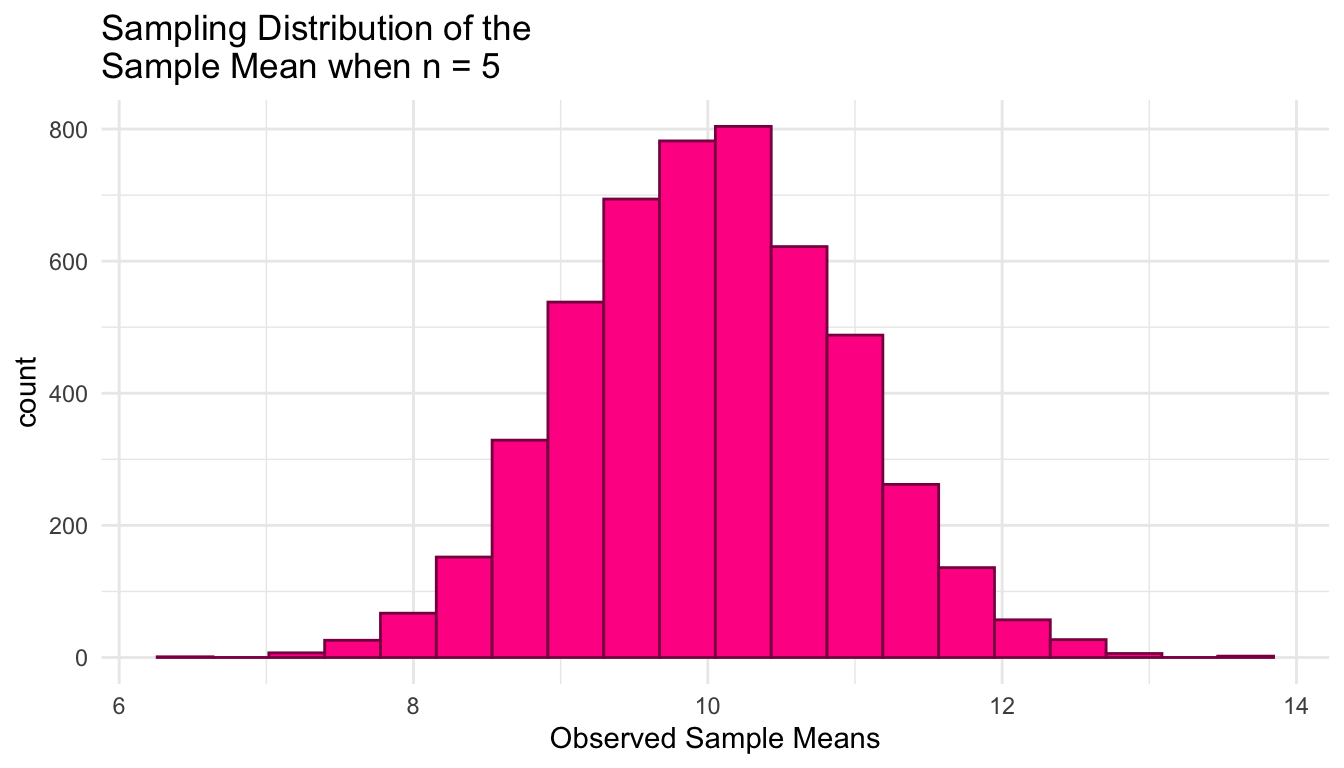
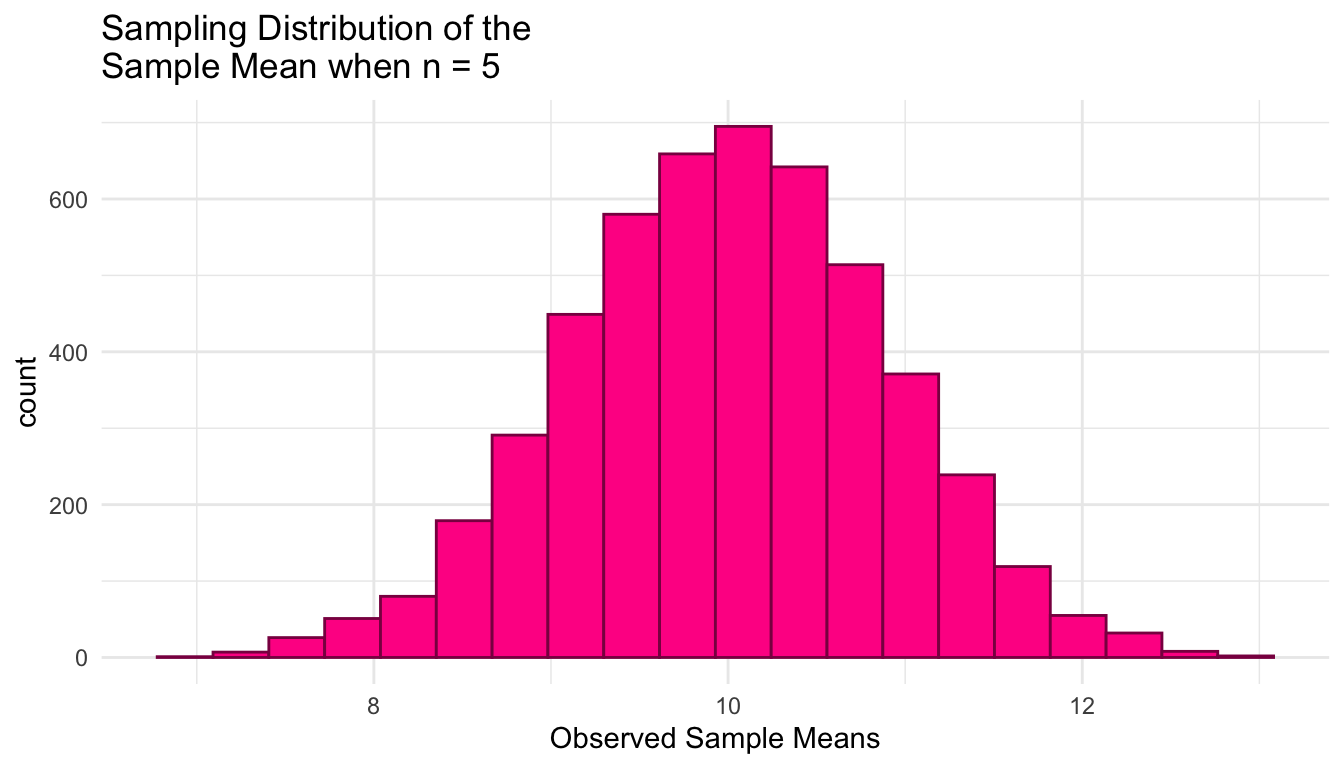
portfolio update.

diff --git a/docs/portfolio.html b/docs/portfolio.html
@@ -68,6 +68,35 @@ ul.task-list li input[type="checkbox"] {
   }
 }</script>
 
+  <script src="https://polyfill.io/v3/polyfill.min.js?features=es6"></script>
+  <script src="https://cdn.jsdelivr.net/npm/mathjax@3/es5/tex-chtml-full.js" type="text/javascript"></script>
+
+<script type="text/javascript">
+const typesetMath = (el) => {
+  if (window.MathJax) {
+    // MathJax Typeset
+    window.MathJax.typeset([el]);
+  } else if (window.katex) {
+    // KaTeX Render
+    var mathElements = el.getElementsByClassName("math");
+    var macros = [];
+    for (var i = 0; i < mathElements.length; i++) {
+      var texText = mathElements[i].firstChild;
+      if (mathElements[i].tagName == "SPAN") {
+        window.katex.render(texText.data, mathElements[i], {
+          displayMode: mathElements[i].classList.contains('display'),
+          throwOnError: false,
+          macros: macros,
+          fleqn: false
+        });
+      }
+    }
+  }
+}
+window.Quarto = {
+  typesetMath
+};
+</script>
 
 </head>
 
@@ -160,7 +189,19 @@ ul.task-list li input[type="checkbox"] {
 <div id="quarto-sidebar-glass" class="quarto-sidebar-collapse-item" data-bs-toggle="collapse" data-bs-target=".quarto-sidebar-collapse-item"></div>
 <!-- margin-sidebar -->
     <div id="quarto-margin-sidebar" class="sidebar margin-sidebar">
-        
+        <nav id="TOC" role="doc-toc" class="toc-active">
+    <h2 id="toc-title">Table of contents</h2>
+   
+  <ul>
+  <li><a href="#mini-project-summary-or-homework-summary-35-points" id="toc-mini-project-summary-or-homework-summary-35-points" class="nav-link active" data-scroll-target="#mini-project-summary-or-homework-summary-35-points">Mini-Project Summary OR Homework Summary (35 points)</a>
+  <ul class="collapse">
+  <li><a href="#option-1-mini-projects" id="toc-option-1-mini-projects" class="nav-link" data-scroll-target="#option-1-mini-projects">Option 1: Mini-Projects</a></li>
+  <li><a href="#option-2-homework" id="toc-option-2-homework" class="nav-link" data-scroll-target="#option-2-homework">Option 2: Homework</a></li>
+  </ul></li>
+  <li><a href="#reflection-20-points" id="toc-reflection-20-points" class="nav-link" data-scroll-target="#reflection-20-points">Reflection (20 points)</a></li>
+  <li><a href="#in-class-assessment-45-points" id="toc-in-class-assessment-45-points" class="nav-link" data-scroll-target="#in-class-assessment-45-points">In-Class Assessment (45 points)</a></li>
+  </ul>
+</nav>
     </div>
 <!-- main -->
 <main class="content" id="quarto-document-content">
@@ -184,13 +225,77 @@ ul.task-list li input[type="checkbox"] {
 </header>
 
 
-<p>Information about the final portfolio will be added here.</p>
-<!-- - homework "review": one problem from each section? -->
-<!-- - reflective statement  -->
-<!-- - remote presentation on articles? -->
-<!-- - in-class assessment of articles student has read -->
+<p>Instead of a traditional final exam, you are tasked with writing a short portfolio on concepts we have discussed throughout the semester and then subsequently writing responses to three pre-determined prompts during our final exam time.</p>
+<p>The final portfolio consists of the following pieces.</p>
+<section id="mini-project-summary-or-homework-summary-35-points" class="level2">
+<h2 class="anchored" data-anchor-id="mini-project-summary-or-homework-summary-35-points">Mini-Project Summary OR Homework Summary (35 points)</h2>
+<p>For this part of the portfolio, complete <strong>one</strong> of the following two options (either <strong>Option 1</strong> OR <strong>Option 2</strong>).</p>
+<section id="option-1-mini-projects" class="level3">
+<h3 class="anchored" data-anchor-id="option-1-mini-projects">Option 1: Mini-Projects</h3>
+<p><strong>Collaboration and AI</strong>: If you have questions or issues with the coding or Quarto part of this, you <strong>may</strong> ask other students, the PQRC, or myself and you <strong>may</strong> use AI. However, you <strong>may not</strong> collaborate or use AI at all to assist in writing your reflection.</p>
+<p>For this option, you will create a Quarto Blog/Website containing your 5 mini-projects, and write a reflection that ties the mini-projects together and gives biggest take-aways from each project.</p>
+<p>Your reflection should either go in the <code>about.qmd</code> file that appears at the root directory of the <code>R Project</code>, the <code>index.qmd</code> file that also appears at the root directory of the <code>R Project</code>, or in a separate blog post. The rendered <code>.html</code> file from <code>about.qmd</code> essentially serves as the home page for the blog. The reflection should be about 5 paragraphs or so and should address:</p>
+<ol type="1">
+<li><p>how each mini-project ties in to other content in the course.</p></li>
+<li><p>how each mini-project ties in with some other mini-projects (note that some mini-projects are more connected than others: you do not need to “connect” every single mini-project with every other mini-project).</p></li>
+<li><p>your biggest take-aways from these mini-projects (these should not be copy-pasted from the “take-away” section of any of your original mini-projects: the expectation is that, now that we have gone through the entire course, your take-aways may be more sophisticated now).</p></li>
+</ol>
+<p>Some extra notes:</p>
+<ul>
+<li>mini-project 1 is the only mini-project that had substantial handwritten work. You do <strong>not</strong> need to include the handwritten derivations in the blog.</li>
+<li>if, for other mini-projects, you have things that you submitted that you wrote by hand, you can embed these as images in quarto using <code>knitr::include_graphics("path_to_image.jpg")</code>.</li>
+<li>as you are creating your five posts for the five mini-projects, note that the <code>.qmd</code> file <strong>must</strong> be named <code>index.qmd</code> within each folder and that the folder itself cannot have any spaces or special characters in its name.</li>
+</ul>
+<p><strong>What to Submit</strong>: For this part, you should submit either a url link to the blog (if you have published it through GitHub pages) OR a link to the GitHub repository with the blog (either a public repository, or, if private, add me as a collaborator <code>@highamm</code>).</p>
+<p><strong>Where to Start</strong>: If you already have <code>R Studio</code> connected to GitHub, start creating the blog following the directions at <a href="https://highamm.github.io/dataviz334/02-software.html#creating-a-quarto-blogwebsite" class="uri">https://highamm.github.io/dataviz334/02-software.html#creating-a-quarto-blogwebsite</a>. If you do not have <code>R Studio</code> connected to GitHub, then start by following directions at <a href="https://highamm.github.io/dataviz334/02-software.html#installing-git-and-using-github-class-prep" class="uri">https://highamm.github.io/dataviz334/02-software.html#installing-git-and-using-github-class-prep</a>.</p>
+</section>
+<section id="option-2-homework" class="level3">
+<h3 class="anchored" data-anchor-id="option-2-homework">Option 2: Homework</h3>
+<p><strong>Collaboration and AI</strong>: You <strong>may not</strong> collaborate or use AI at all to assist in this part of the portfolio.</p>
+<p>For this option, you will choose <strong>one</strong> homework problem from each of the five sections of the course (Sampling Distributions, Estimation, Confidence Intervals, Bayesian, and Hypothesis Testing). <strong>Three</strong> of the problems should be problems that you have already completed (and were assigned as homework already) while <strong>two</strong> of the problems should be problems that you have not yet completed (that were not assigned on any homework). You should submit both a formal write-up on each problem as well as a more elaborate description of the problem itself, how it connects to other topics within that particular section, and why you chose that problem in the first place.</p>
+<p>A few notes on the problems themselves:</p>
+<ul>
+<li>it is up to you whether you want to type up your solutions, or, if you want to write them neatly on a sheet of paper.</li>
+<li>if you choose an “easy” problem (e.g., there was a one-line homework problem in the estimation section showing that the standard estimator for <span class="math inline">\(p\)</span> in a binomial setting is unbiased), then the expectation is that your written description is much more lengthy. For a more challenging homework problem, the written description might be one long paragraph or two short paragraphs per problem. For an “easier” homework problem, the written description should be closer to 4-5 paragraphs in order to demonstrate breadth of understanding.</li>
+</ul>
+<p>A few notes on the descriptions:</p>
+<ul>
+<li>for each homework problem description, you should (1) explicitly say why you selected that particular problem, (2) how the problem directly connects to topics within that particular section, and (3) how the problem connects to other topics in the course and to statistics as a whole. Use this description to convince me both that you understand the problem itself and to explain how that particular problem has aided your understanding of statistics.</li>
+</ul>
+<p><strong>What to Submit</strong>: For this part, you should submit a hard copy of each of the homework problems along with typed descriptions of each problem.</p>
+<p><br></p>
+</section>
+</section>
+<section id="reflection-20-points" class="level2">
+<h2 class="anchored" data-anchor-id="reflection-20-points">Reflection (20 points)</h2>
+<p><strong>AI Usage</strong>: You may not use generative AI for this reflection at all. I want to know what <strong>your</strong> thoughts are here! Use of AI will result in a 0 on the entire portfolio.</p>
+<p>Each prompt is worth 5 points. For each, 3 points will be awarded for a complete answer while 5 points will be awarded for a thoughtful and sophisticated answer.</p>
+<ol type="a">
+<li><p>Reflect on your overall experience in this class by describing an interesting idea that you learned, why it was interesting to you, and what it tells you about practicing statistics.</p></li>
+<li><p>Which assessment (homework assignment, recap task, mini-project, or in-class assessment) do you feel you learned the most from? Explain what you learned from this assessment and/or why the assessment was valuable to you.</p></li>
+<li><p>What was a concept you learned in this course that you hope you remember 5 years from now? Why is it important that you remember this concept?</p></li>
+<li><p>What statistical ideas are you curious to know more about as a result of taking this class? Try to give two examples and explain why you would like to know more about them.</p></li>
+</ol>
+<p><strong>What to Submit</strong>: For this part, you should typed responses to each of the 4 prompts.</p>
+<p><br></p>
+</section>
+<section id="in-class-assessment-45-points" class="level2">
+<h2 class="anchored" data-anchor-id="in-class-assessment-45-points">In-Class Assessment (45 points)</h2>
+<p>In class during our final exam time, you will be prompted with 3 short “essay”-style questions that are based off of the following prompts. Note that the questions posed will not be exact verbatim matches to the five conceptual questions above, but they will be <strong>extremely</strong> similar.</p>
+<p><strong>Collaboration and AI</strong>: To prepare, you <strong>may</strong> work with any others in the class and you <strong>may</strong> use AI as a tool to help you prepare. However, I want to assess what <strong>you</strong> have learned, not what you might copy down from an AI response: therefore, you may not use a cheatsheet for the in-class component.</p>
+<p>Our course was broken up into 5 sections: Sampling Distributions, Estimation, Confidence Intervals, Bayesian Statistics, and Hypothesis Testing. Below are some questions that are inspired by each of the sections. In class, you will be prompted to write a written response (about two short paragraphs) on <strong>three</strong> (not-so-randomly-selected) prompts that will be very similar to three of the prompts below.</p>
+<ol type="a">
+<li><p><strong>Section 1</strong> (Sampling Distributions). Throughout most of the section on sampling distributions, we supposed that we knew a probability model that could generate data and that we knew the values of the parameters in that probability model (e.g., <span class="math inline">\(\mu = 10\)</span>, <span class="math inline">\(\sigma = 2\)</span> in a normal probability model). Given that in practice, we rarely know the true values of the parameters in a model, what do you think the overall purpose of this section was? In other words, why complete this section if we rarely actually know the values of parameters?</p></li>
+<li><p><strong>Section 2</strong> (Estimation). In the section on estimation, we used a few different methods (method of moments, maximum likelihood estimation) to derive estimators for parameters in probability models using data. Something that we emphasized is the idea of a “bias variance trade-off.” Explain what the bias variance trade-off is. In your explanation, you should address what bias is and what variance is by explaining what would happen if you applied an estimator with high bias to repeated (thousands of) samples of data and what would happen if you applied an estimator with high variance to repeated (thousands of) samples of data.</p></li>
+<li><p><strong>Section 3</strong> (Confidence Intervals). We spent some time in class discussing what is meant by “95% confidence.” Now, consider the simple linear regression model <span class="math inline">\(Y_i = \beta_0 + \beta_1 x_i + \epsilon_i\)</span>, where <span class="math inline">\(\epsilon_i\)</span> are iid <span class="math inline">\(\text{N}(0, \sigma^2)\)</span> random variables. Suppose that you use obtain a 95% confidence interval for <span class="math inline">\(\beta_1\)</span>, the slope parameter in the model using <code>R</code>, <code>Python</code>, or other statistical software. Explain what is meant by “95% confidence” in this setting (perhaps reviewing Lab 3.2).</p></li>
+<li><p><strong>Section 4</strong> (Bayesian). What are the primary differences (conceptually) between working in a “frequentist” framework (all statistics you would have likely seen up to this section) and a “Bayesian” framework?</p></li>
+<li><p><strong>Section 5</strong>. Consider again the simple linear regression model <span class="math inline">\(Y_i = \beta_0 + \beta_1 x_i + \epsilon_i\)</span>, where <span class="math inline">\(\epsilon_i\)</span> are iid <span class="math inline">\(\text{N}(0, \sigma^2)\)</span> random variables, and suppose that your friend collects some data to conduct a hypothesis test <span class="math inline">\(H_0: \beta_1 = 0\)</span> vs.&nbsp;<span class="math inline">\(H_a: \beta_1 \neq 0\)</span>. They correctly obtain a p-value of 0.994 from the test and conclude: “My p-value is very large and quite close to 1, so the null hypothesis is extremely likely to be true.” Explain what is wrong with your friend’s conclusion.</p></li>
+</ol>
+<p>You will have the full 3 hours to complete the assessment, but I would expect the average time to complete it to be about 45 minutes.</p>
+<p><strong>What to Submit</strong>: Nothing before the assessment! You’ll submit your written responses to three of these prompts during our final exam time.</p>
 
 
+</section>
 
 </main> <!-- /main -->
 <script id="quarto-html-after-body" type="application/javascript">

diff --git a/docs/samp-dist.html b/docs/samp-dist.html
@@ -268,7 +268,7 @@ window.Quarto = {
 <span><span class="va">single_sample</span> <span class="op">&lt;-</span> <span class="fu"><a href="https://rdrr.io/r/stats/Normal.html">rnorm</a></span><span class="op">(</span><span class="va">n</span>, <span class="va">mu</span>, <span class="va">sigma</span><span class="op">)</span> <span class="op">|&gt;</span> <span class="fu"><a href="https://rdrr.io/r/base/Round.html">round</a></span><span class="op">(</span><span class="fl">2</span><span class="op">)</span></span>
 <span><span class="co"># look at the sample</span></span>
 <span><span class="va">single_sample</span> </span>
-<span><span class="co">#&gt; [1] 10.72  9.45 12.55  9.77 10.05</span></span></code><button title="Copy to Clipboard" class="code-copy-button"><i class="bi"></i></button></pre></div>
+<span><span class="co">#&gt; [1] 14.21  6.61  8.81 11.16 10.89</span></span></code><button title="Copy to Clipboard" class="code-copy-button"><i class="bi"></i></button></pre></div>
 </div>
 <p>Next, we compute the sample mean from this sample: this is our sample statistic we are interested in.</p>
 <div class="cell">
@@ -276,7 +276,7 @@ window.Quarto = {
 <span><span class="va">sample_mean</span> <span class="op">&lt;-</span> <span class="fu"><a href="https://rdrr.io/r/base/mean.html">mean</a></span><span class="op">(</span><span class="va">single_sample</span><span class="op">)</span></span>
 <span><span class="co"># look at the sample mean</span></span>
 <span><span class="va">sample_mean</span>     </span>
-<span><span class="co">#&gt; [1] 10.508</span></span></code><button title="Copy to Clipboard" class="code-copy-button"><i class="bi"></i></button></pre></div>
+<span><span class="co">#&gt; [1] 10.336</span></span></code><button title="Copy to Clipboard" class="code-copy-button"><i class="bi"></i></button></pre></div>
 </div>
 <p>Again, your sample mean should be different!</p>
 <p>Finally, we can make a plot of our single sample, along with where the sample mean lies.</p>
@@ -326,7 +326,7 @@ window.Quarto = {
 <span></span>
 <span><span class="co">## test function once:</span></span>
 <span><span class="fu">generate_normal_mean</span><span class="op">(</span>mu <span class="op">=</span> <span class="va">mu</span>, sigma <span class="op">=</span> <span class="va">sigma</span>, n <span class="op">=</span> <span class="va">n</span><span class="op">)</span></span>
-<span><span class="co">#&gt; [1] 9.535125</span></span></code><button title="Copy to Clipboard" class="code-copy-button"><i class="bi"></i></button></pre></div>
+<span><span class="co">#&gt; [1] 10.35405</span></span></code><button title="Copy to Clipboard" class="code-copy-button"><i class="bi"></i></button></pre></div>
 </div>
 <p>Next, to generate 5000 sample means, we map through the function:</p>
 <div class="cell">
@@ -344,12 +344,12 @@ window.Quarto = {
 <span><span class="co">#&gt; # A tibble: 5,000 × 1</span></span>
 <span><span class="co">#&gt;   means</span></span>
 <span><span class="co">#&gt;   &lt;dbl&gt;</span></span>
-<span><span class="co">#&gt; 1 10.6 </span></span>
-<span><span class="co">#&gt; 2 11.1 </span></span>
-<span><span class="co">#&gt; 3  8.90</span></span>
-<span><span class="co">#&gt; 4  8.14</span></span>
-<span><span class="co">#&gt; 5  9.40</span></span>
-<span><span class="co">#&gt; 6  9.86</span></span>
+<span><span class="co">#&gt; 1 10.7 </span></span>
+<span><span class="co">#&gt; 2 10.1 </span></span>
+<span><span class="co">#&gt; 3 11.0 </span></span>
+<span><span class="co">#&gt; 4  9.63</span></span>
+<span><span class="co">#&gt; 5 10.9 </span></span>
+<span><span class="co">#&gt; 6  9.17</span></span>
 <span><span class="co">#&gt; # ℹ 4,994 more rows</span></span></code><button title="Copy to Clipboard" class="code-copy-button"><i class="bi"></i></button></pre></div>
 </div>
 <p>Finally, we plot the 5000 sample means to see what our sampling distribution of the sample mean (for a sample size of 5) looks like.</p>
@@ -375,7 +375,7 @@ window.Quarto = {
 <span><span class="co">#&gt; # A tibble: 1 × 3</span></span>
 <span><span class="co">#&gt;   mean_samp_dist var_samp_dist sd_samp_dist</span></span>
 <span><span class="co">#&gt;            &lt;dbl&gt;         &lt;dbl&gt;        &lt;dbl&gt;</span></span>
-<span><span class="co">#&gt; 1           10.0         0.843        0.918</span></span></code><button title="Copy to Clipboard" class="code-copy-button"><i class="bi"></i></button></pre></div>
+<span><span class="co">#&gt; 1           10.0         0.799        0.894</span></span></code><button title="Copy to Clipboard" class="code-copy-button"><i class="bi"></i></button></pre></div>
 </div>
 <p>And, we can even obtain estimates of the probability that we observe a sample mean larger than 11 by <strong>calculating the proportion of our observed sample means that are larger than 11</strong>. We can use a similar strategy to estimate the probability that we observe a sample mean less than or equal to 9.5.</p>
 <div class="cell">
@@ -387,7 +387,7 @@ window.Quarto = {
 <span><span class="co">#&gt; # A tibble: 1 × 1</span></span>
 <span><span class="co">#&gt;   prob_more_than_11</span></span>
 <span><span class="co">#&gt;               &lt;dbl&gt;</span></span>
-<span><span class="co">#&gt; 1             0.137</span></span>
+<span><span class="co">#&gt; 1             0.132</span></span>
 <span></span>
 <span><span class="co"># What is the probability that we observe a sample mean less than or equal to 9.5?</span></span>
 <span><span class="va">means_df</span> <span class="op">|&gt;</span></span>
@@ -397,7 +397,7 @@ window.Quarto = {
 <span><span class="co">#&gt; # A tibble: 1 × 1</span></span>
 <span><span class="co">#&gt;   prob_less_9.5</span></span>
 <span><span class="co">#&gt;           &lt;dbl&gt;</span></span>
-<span><span class="co">#&gt; 1         0.291</span></span></code><button title="Copy to Clipboard" class="code-copy-button"><i class="bi"></i></button></pre></div>
+<span><span class="co">#&gt; 1         0.287</span></span></code><button title="Copy to Clipboard" class="code-copy-button"><i class="bi"></i></button></pre></div>
 </div>
 <p><strong>Exercise</strong>. Repeat the construction of the sampling distribution of the sample mean several times. How do the results change (or not)?</p>
 <p><strong>Exercise</strong>. Use the result from STAT 325 to report the theoretical distribution of the sample mean. Use this result to find <span class="math inline">\(P(\bar{Y}\leq 9.5)\)</span> and <span class="math inline">\(P(\bar{Y}&gt;11)\)</span> analytically.</p>
@@ -479,7 +479,7 @@ window.Quarto = {
 <span></span>
 <span><span class="co">## test function once:</span></span>
 <span><span class="fu">generate_exp_mean</span><span class="op">(</span>lambda <span class="op">=</span> <span class="va">lambda</span>, n <span class="op">=</span> <span class="va">n</span><span class="op">)</span></span>
-<span><span class="co">#&gt; [1] 0.6267046</span></span>
+<span><span class="co">#&gt; [1] 1.297624</span></span>
 <span></span>
 <span><span class="va">nsim</span> <span class="op">&lt;-</span> <span class="fl">5000</span>      <span class="co"># number of simulations</span></span>
 <span></span>
@@ -492,12 +492,12 @@ window.Quarto = {
 <span><span class="co">#&gt; # A tibble: 5,000 × 1</span></span>
 <span><span class="co">#&gt;   means</span></span>
 <span><span class="co">#&gt;   &lt;dbl&gt;</span></span>
-<span><span class="co">#&gt; 1  1.84</span></span>
-<span><span class="co">#&gt; 2  4.03</span></span>
-<span><span class="co">#&gt; 3  1.85</span></span>
-<span><span class="co">#&gt; 4  2.36</span></span>
-<span><span class="co">#&gt; 5  2.30</span></span>
-<span><span class="co">#&gt; 6  1.76</span></span>
+<span><span class="co">#&gt; 1  3.01</span></span>
+<span><span class="co">#&gt; 2  1.61</span></span>
+<span><span class="co">#&gt; 3  2.08</span></span>
+<span><span class="co">#&gt; 4  3.13</span></span>
+<span><span class="co">#&gt; 5  1.79</span></span>
+<span><span class="co">#&gt; 6  1.89</span></span>
 <span><span class="co">#&gt; # ℹ 4,994 more rows</span></span>
 <span></span>
 <span><span class="fu"><a href="https://ggplot2.tidyverse.org/reference/ggplot.html">ggplot</a></span><span class="op">(</span>data <span class="op">=</span> <span class="va">means_df</span>, <span class="fu"><a href="https://ggplot2.tidyverse.org/reference/aes.html">aes</a></span><span class="op">(</span>x <span class="op">=</span> <span class="va">means</span><span class="op">)</span><span class="op">)</span> <span class="op">+</span></span>

diff --git a/docs/hyp-test.html b/docs/hyp-test.html
@@ -298,16 +298,16 @@ window.Quarto = {
 <pre><code># A tibble: 4,029 × 11
    delay_perm Carrier Delay    ID FlightNo Destination DepartTime Day   Month
         &lt;int&gt; &lt;fct&gt;   &lt;int&gt; &lt;int&gt;    &lt;int&gt; &lt;fct&gt;       &lt;fct&gt;      &lt;fct&gt; &lt;fct&gt;
- 1         -5 UA         -1     1      403 DEN         4-8am      Fri   May  
- 2         13 UA        102     2      405 DEN         8-Noon     Fri   May  
- 3         -8 UA          4     3      409 DEN         4-8pm      Fri   May  
- 4         57 UA         -2     4      511 ORD         8-Noon     Fri   May  
- 5        104 UA         -3     5      667 ORD         4-8am      Fri   May  
- 6         -7 UA          0     6      669 ORD         4-8am      Fri   May  
- 7         -6 UA         -5     7      673 ORD         8-Noon     Fri   May  
- 8         60 UA          0     8      677 ORD         8-Noon     Fri   May  
+ 1         -4 UA         -1     1      403 DEN         4-8am      Fri   May  
+ 2         -6 UA        102     2      405 DEN         8-Noon     Fri   May  
+ 3         -2 UA          4     3      409 DEN         4-8pm      Fri   May  
+ 4          0 UA         -2     4      511 ORD         8-Noon     Fri   May  
+ 5         87 UA         -3     5      667 ORD         4-8am      Fri   May  
+ 6        120 UA          0     6      669 ORD         4-8am      Fri   May  
+ 7         -9 UA         -5     7      673 ORD         8-Noon     Fri   May  
+ 8         -3 UA          0     8      677 ORD         8-Noon     Fri   May  
  9         -6 UA         10     9      679 ORD         Noon-4pm   Fri   May  
-10         -6 UA         60    10      681 ORD         Noon-4pm   Fri   May  
+10          6 UA         60    10      681 ORD         Noon-4pm   Fri   May  
 # ℹ 4,019 more rows
 # ℹ 2 more variables: FlightLength &lt;int&gt;, Delayed30 &lt;fct&gt;</code></pre>
 </div>
@@ -323,7 +323,7 @@ window.Quarto = {
 <span>  <span class="fu"><a href="https://dplyr.tidyverse.org/reference/pull.html">pull</a></span><span class="op">(</span><span class="va">mean_delay_perm</span><span class="op">)</span> <span class="op">|&gt;</span></span>
 <span>  <span class="fu"><a href="https://rdrr.io/r/base/diff.html">diff</a></span><span class="op">(</span><span class="op">)</span></span></code><button title="Copy to Clipboard" class="code-copy-button"><i class="bi"></i></button></pre></div>
 <div class="cell-output cell-output-stdout">
-<pre><code>[1] -0.4020582</code></pre>
+<pre><code>[1] 1.032533</code></pre>
 </div>
 </div>
 <p>Rerun the code chunk above a few times to get a few different mean differences under different permutations. The big idea is that a large number of these mean differences will form the null distribution for the difference in sample means (if there really is no difference in the underlying population distributions).</p>
@@ -373,7 +373,7 @@ window.Quarto = {
 <div class="cell">
 <div class="sourceCode" id="cb11"><pre class="downlit sourceCode r code-with-copy"><code class="sourceCode R"><span><span class="op">(</span><span class="fu"><a href="https://rdrr.io/r/base/sum.html">sum</a></span><span class="op">(</span><span class="va">diff_means</span> <span class="op">&gt;</span> <span class="fu"><a href="https://rdrr.io/r/base/MathFun.html">abs</a></span><span class="op">(</span><span class="va">teststat</span><span class="op">)</span><span class="op">)</span> <span class="op">+</span> <span class="fu"><a href="https://rdrr.io/r/base/sum.html">sum</a></span><span class="op">(</span><span class="va">diff_means</span> <span class="op">&lt;</span> <span class="op">-</span><span class="fu"><a href="https://rdrr.io/r/base/MathFun.html">abs</a></span><span class="op">(</span><span class="va">teststat</span><span class="op">)</span><span class="op">)</span> <span class="op">+</span> <span class="fl">1</span><span class="op">)</span> <span class="op">/</span> <span class="op">(</span><span class="va">n_perm</span> <span class="op">+</span> <span class="fl">1</span><span class="op">)</span></span></code><button title="Copy to Clipboard" class="code-copy-button"><i class="bi"></i></button></pre></div>
 <div class="cell-output cell-output-stdout">
-<pre><code>[1] 0.00039992</code></pre>
+<pre><code>[1] 0.00019996</code></pre>
 </div>
 </div>
 <p><strong>Exercise</strong>. What is the alternative hypothesis that the p-value is testing?</p>
@@ -629,7 +629,7 @@ Number of Fisher Scoring iterations: 4</code></pre>
 <span>                   sigma <span class="op">=</span> <span class="va">sigma</span>,</span>
 <span>                   n <span class="op">=</span> <span class="va">n</span><span class="op">)</span></span></code><button title="Copy to Clipboard" class="code-copy-button"><i class="bi"></i></button></pre></div>
 <div class="cell-output cell-output-stdout">
-<pre><code>[1] 0.8640129</code></pre>
+<pre><code>[1] 0.2635063</code></pre>
 </div>
 </div>
 <p><strong>Exercise</strong>. What does <code>delta</code> represent in the code above?</p>
@@ -650,16 +650,16 @@ Number of Fisher Scoring iterations: 4</code></pre>
 <pre><code># A tibble: 10,000 × 2
    p_vals reject
     &lt;dbl&gt;  &lt;dbl&gt;
- 1  0.909      0
- 2  0.339      0
- 3  0.171      0
- 4  0.137      0
- 5  0.158      0
- 6  0.374      0
- 7  0.143      0
- 8  0.146      0
- 9  0.683      0
-10  0.143      0
+ 1 0.995       0
+ 2 0.134       0
+ 3 0.0393      0
+ 4 0.978       0
+ 5 0.923       0
+ 6 0.358       0
+ 7 0.755       0
+ 8 0.0200      0
+ 9 0.169       0
+10 0.330       0
 # ℹ 9,990 more rows</code></pre>
 </div>
 </div>

diff --git a/docs/conf-int.html b/docs/conf-int.html
@@ -460,7 +460,7 @@ window.Quarto = {
 <pre><code># A tibble: 1 × 3
   point_est    lb    ub
       &lt;dbl&gt; &lt;dbl&gt; &lt;dbl&gt;
-1      12.3  5.17  19.4</code></pre>
+1      13.2  7.26  19.1</code></pre>
 </div>
 </div>
 <p>But, if we want to explore the coverage rate and average interval width, we need to simulate <strong>many</strong> confidence intervals. Below, we <code><a href="https://purrr.tidyverse.org/reference/map.html">map()</a></code> through our function <code>nsim</code> times and bind the results together into a data frame at the end:</p>
@@ -475,18 +475,18 @@ window.Quarto = {
 <span><span class="va">many_ci_df</span></span></code><button title="Copy to Clipboard" class="code-copy-button"><i class="bi"></i></button></pre></div>
 <div class="cell-output cell-output-stdout">
 <pre><code># A tibble: 1,000 × 3
-   point_est    lb    ub
-       &lt;dbl&gt; &lt;dbl&gt; &lt;dbl&gt;
- 1      9.20  1.69  16.7
- 2     13.3   7.20  19.3
- 3      9.64  6.19  13.1
- 4      9.00  4.40  13.6
- 5     10.5   2.36  18.6
- 6      8.85  3.10  14.6
- 7      6.99  2.14  11.8
- 8     10.6   4.44  16.7
- 9     14.5   8.50  20.4
-10      9.74  6.25  13.2
+   point_est     lb    ub
+       &lt;dbl&gt;  &lt;dbl&gt; &lt;dbl&gt;
+ 1     10.5   6.68  14.3 
+ 2     14.4   4.67  24.1 
+ 3     15.3  12.1   18.6 
+ 4      9.35  0.654 18.0 
+ 5     10.9   6.44  15.3 
+ 6     10.3   7.25  13.4 
+ 7     10.1   6.25  14.0 
+ 8      3.32 -1.45   8.09
+ 9     12.6   6.40  18.9 
+10     10.7   2.63  18.8 
 # ℹ 990 more rows</code></pre>
 </div>
 </div>
@@ -505,7 +505,7 @@ window.Quarto = {
 <pre><code># A tibble: 1 × 2
   avg_width coverage_rate
       &lt;dbl&gt;         &lt;dbl&gt;
-1      11.6         0.941</code></pre>
+1      11.7          0.95</code></pre>
 </div>
 </div>
 <p><strong>Exercise</strong>. Suppose that you increase the value of <code>sigma</code> in the code above and obtain new values for the <code>avg_width</code> and for <code>coverage_rate</code>. How do you expect each of these quantities to change with the new <code>sigma</code>?</p>
@@ -693,7 +693,7 @@ window.Quarto = {
 <span></span>
 <span><span class="fu">generate_one_bootprop</span><span class="op">(</span><span class="op">)</span></span></code><button title="Copy to Clipboard" class="code-copy-button"><i class="bi"></i></button></pre></div>
 <div class="cell-output cell-output-stdout">
-<pre><code>[1] 0.1887755</code></pre>
+<pre><code>[1] 0.1819728</code></pre>
 </div>
 </div>
 <p>We can then map over the function to obtain <code>B</code> bootstrap proportions and put these bootstrap proportions into a data frame:</p>
